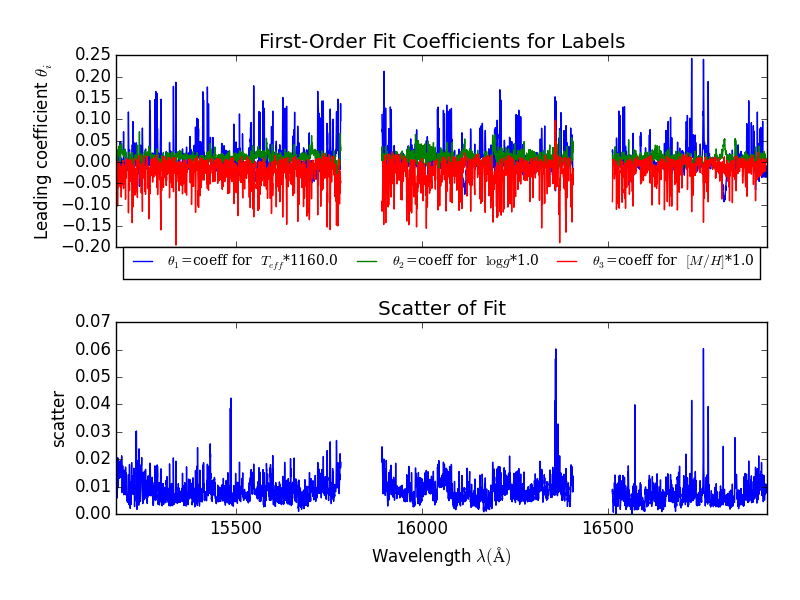
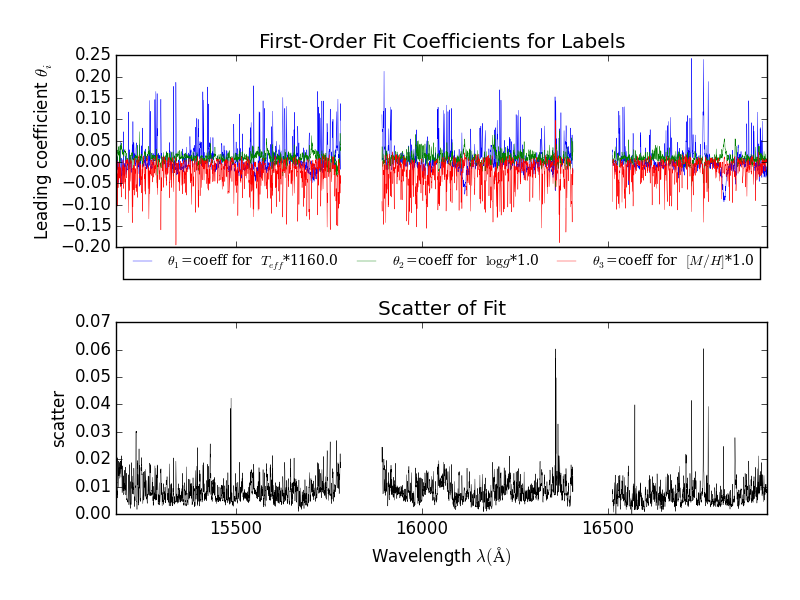
make linewidth smaller, basespec black

diff --git a/Code/Version1.2/cannon1_train_model.py b/Code/Version1.2/cannon1_train_model.py
@@ -166,22 +166,22 @@ def model_diagnostics(reference_set, model):
     plt.xlabel(r"Wavelength $\lambda (\AA)$")
     plt.xlim(np.ma.min(lams), np.ma.max(lams))
     ax = axarr[0]
-    ax.plot(lams, baseline_spec,
+    ax.plot(lams, baseline_spec, c='k', linewidth=0.3,
             label=r'$\theta_0$' + "= the leading fit coefficient")
     #contpix = list(np.loadtxt("contpix.txt"))
     contpix_lambda = list(np.loadtxt("contpix_lambda.txt", 
         usecols = (0,), unpack =1))
     y = [1]*len(contpix_lambda)
-    ax.scatter(contpix_lambda, y, s=1, label="continuum pixels")
+    ax.scatter(contpix_lambda, y, s=1, color='r',label="continuum pixels")
     ax.legend(loc='lower right', prop={'family':'serif', 'size':'small'})
     ax.set_title("Baseline Spectrum with Continuum Pixels")
     ax.set_ylabel(r'$\theta_0$')
     ax = axarr[1]
-    ax.plot(lams, baseline_spec, 
+    ax.plot(lams, baseline_spec, c='k', linewidth=0.3,
             label=r'$\theta_0$' + "= the leading fit coefficient")
     #contpix_lambda = list(np.loadtxt("contpix_lambda.txt", 
     #    usecols = (0,), unpack =1))
-    ax.scatter(contpix_lambda, y, s=1, label="continuum pixels")
+    ax.scatter(contpix_lambda, y, s=1, color='r',label="continuum pixels")
     ax.set_title("Baseline Spectrum with Continuum Pixels, Zoomed")
     ax.legend(loc='upper right', prop={'family':'serif', 'size':'small'})
     ax.set_ylabel(r'$\theta_0$')
@@ -206,8 +206,8 @@ def model_diagnostics(reference_set, model):
     ax.set_title("First-Order Fit Coefficients for Labels")
     for i in range(nlabels):
         coeffs = coeffs_all[:,i+1] * ratios[i]
-        ax.plot(lams, coeffs, label=r'$\theta_%s$'%(i+1)+'=coeff for ' + 
-                r" $%s$*%s"%(label_names[i], ratios[i]))
+        ax.plot(lams, coeffs, linewidth=0.3, label=r'$\theta_%s$'%(i+1)
+                +'=coeff for ' + r" $%s$*%s"%(label_names[i], ratios[i]))
     box = ax.get_position()
     ax.set_position([box.x0, box.y0 + box.height*0.1, box.width, box.height*0.9])
     ax.legend(bbox_to_anchor=(0., -.2, 1., .102), loc=3, ncol=3, mode="expand", 
@@ -215,7 +215,7 @@ def model_diagnostics(reference_set, model):
     ax = axarr[1]
     ax.set_ylabel("scatter")
     ax.set_title("Scatter of Fit")
-    ax.plot(lams, scatters)
+    ax.plot(lams, scatters, c='k', linewidth=0.3)
     fig.tight_layout(pad=2.0, h_pad=4.0)
     print "Diagnostic plot: leading coeffs and scatters across wavelength."
     filename = "leading_coeffs.png"
